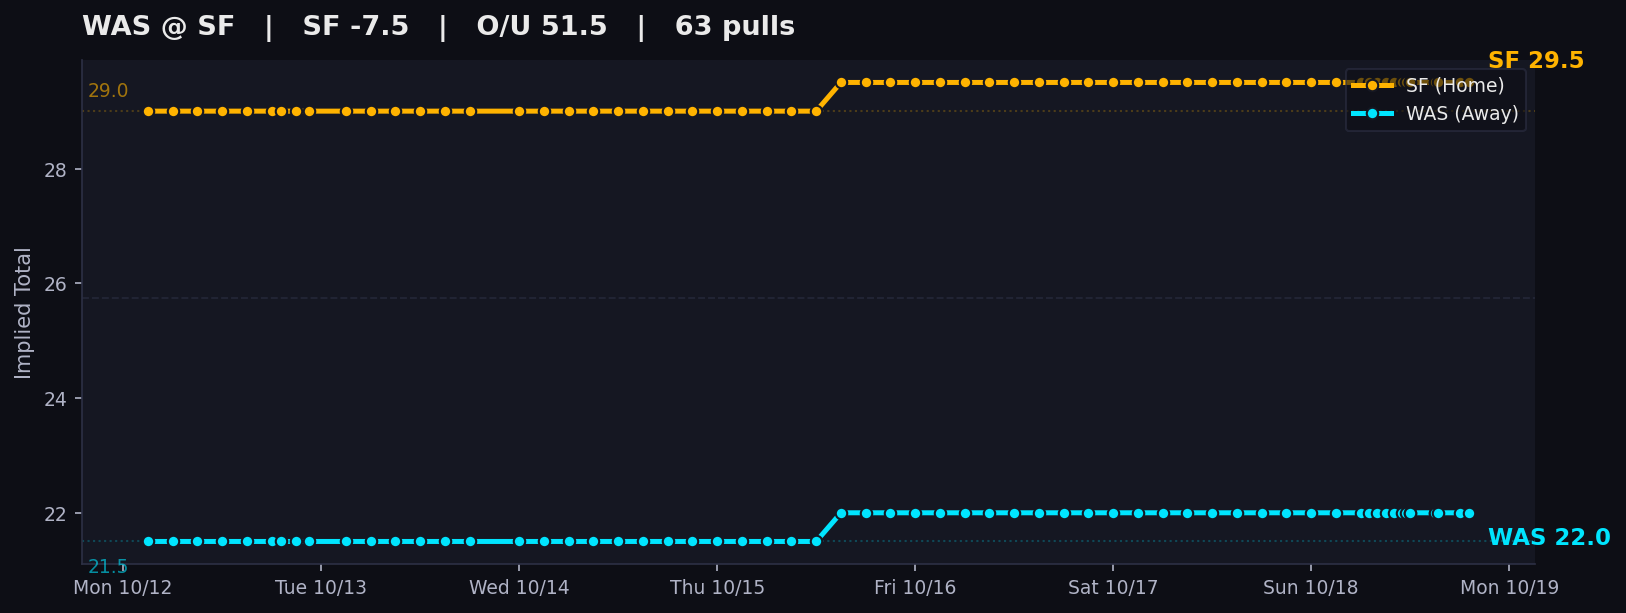
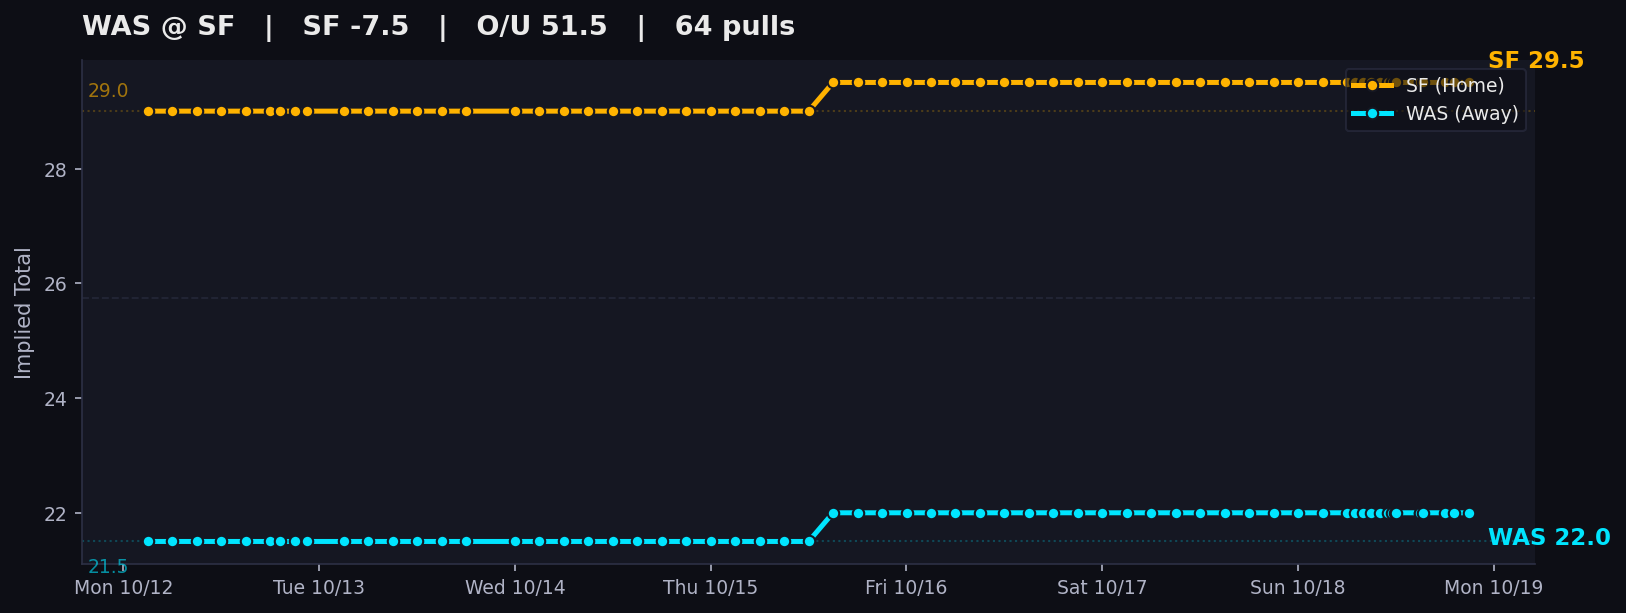
auto: local tracker sync

diff --git a/charts/index.html b/charts/index.html
@@ -311,7 +311,7 @@
     </div>
     <p class='sub'>
       DraftKings main lines &middot; Pinnacle cross-check &middot; Updated by the local Mac tracker<br>
-      Page rendered Sun Oct 18, 2026 7:10 PM CDT &middot; 827 valid chart dots &middot; 870 total pull attempts
+      Page rendered Sun Oct 18, 2026 9:00 PM CDT &middot; 828 valid chart dots &middot; 872 total pull attempts
       <span class='legend-box'>
         <span class='dot-teal'>● Away implied total</span>
         <span class='dot-amber'>● Home implied total</span>
@@ -324,9 +324,9 @@
     </details>
   </header>
 
-  <div id='feed-banner' class='alert-banner healthy' data-banner-kind='healthy' data-feed-ts='2026-10-19T00:10:01.359197+00:00' data-feed-ts-label='Sun Oct 18, 7:10 PM CDT'>
+  <div id='feed-banner' class='alert-banner healthy' data-banner-kind='healthy' data-feed-ts='2026-10-19T02:00:02.631627+00:00' data-feed-ts-label='Sun Oct 18, 9:00 PM CDT'>
             <span class='status-dot'></span>
-            <b>Feed Healthy:</b> All 2 open markets updated. 12 games have started and is showing its final verified pregame line. Board age based on oldest open market: <span id='feed-time'>Sun Oct 18, 7:10 PM CDT</span> (<span id='feed-age-dynamic'>just now</span>).
+            <b>Feed Healthy:</b> All 1 open markets updated. 13 games have started and is showing its final verified pregame line. Board age based on oldest open market: <span id='feed-time'>Sun Oct 18, 9:00 PM CDT</span> (<span id='feed-age-dynamic'>just now</span>).
         </div>
 
   <nav class='filter-bar' aria-label='Filter games by slate'>
@@ -396,7 +396,7 @@
                 <div><span>Last valid pull</span><strong>Thu 6:00 PM CT</strong></div>
                 <div><span>Chart dots</span><strong>34</strong></div>
             </div>
-                    <img class='expanded-chart' src='SEA_DEN.png?v=1792368616' alt='SEA at DEN line movement chart'>
+                    <img class='expanded-chart' src='SEA_DEN.png?v=1792375218' alt='SEA at DEN line movement chart'>
                     <p class='movement-note'>Total 42.5 → 40.5</p>
                 </div>
             </td>
@@ -437,7 +437,7 @@
                 <div><span>Last valid pull</span><strong>8:00 AM CT</strong></div>
                 <div><span>Chart dots</span><strong>56</strong></div>
             </div>
-                    <img class='expanded-chart' src='HOU_JAX.png?v=1792368616' alt='HOU at JAX line movement chart'>
+                    <img class='expanded-chart' src='HOU_JAX.png?v=1792375218' alt='HOU at JAX line movement chart'>
                     <p class='movement-note'>Spread JAX -3.0 → -2.5; Total 43.5 → 41.5</p>
                 </div>
             </td>
@@ -478,7 +478,7 @@
                 <div><span>Last valid pull</span><strong>12:00 PM CT</strong></div>
                 <div><span>Chart dots</span><strong>62</strong></div>
             </div>
-                    <img class='expanded-chart' src='CAR_PHI.png?v=1792368616' alt='CAR at PHI line movement chart'>
+                    <img class='expanded-chart' src='CAR_PHI.png?v=1792375218' alt='CAR at PHI line movement chart'>
                     <p class='movement-note'>Spread CAR +1.5 → -3.0; Total 42.5 → 39.5</p>
                 </div>
             </td>
@@ -513,7 +513,7 @@
                 <div><span>Last valid pull</span><strong>12:00 PM CT</strong></div>
                 <div><span>Chart dots</span><strong>55</strong></div>
             </div>
-                    <img class='expanded-chart' src='CHI_ATL.png?v=1792368616' alt='CHI at ATL line movement chart'>
+                    <img class='expanded-chart' src='CHI_ATL.png?v=1792375218' alt='CHI at ATL line movement chart'>
                     <p class='movement-note'>Spread CHI -3.0 → -1.5; Total 48.5 → 51.5</p>
                 </div>
             </td>
@@ -548,7 +548,7 @@
                 <div><span>Last valid pull</span><strong>12:00 PM CT</strong></div>
                 <div><span>Chart dots</span><strong>62</strong></div>
             </div>
-                    <img class='expanded-chart' src='PIT_TB.png?v=1792368616' alt='PIT at TB line movement chart'>
+                    <img class='expanded-chart' src='PIT_TB.png?v=1792375218' alt='PIT at TB line movement chart'>
                     <p class='movement-note'>Spread PIT -3.0 → -2.5; Total 40.5 → 37.5</p>
                 </div>
             </td>
@@ -583,7 +583,7 @@
                 <div><span>Last valid pull</span><strong>12:00 PM CT</strong></div>
                 <div><span>Chart dots</span><strong>62</strong></div>
             </div>
-                    <img class='expanded-chart' src='NO_NYG.png?v=1792368616' alt='NO at NYG line movement chart'>
+                    <img class='expanded-chart' src='NO_NYG.png?v=1792375218' alt='NO at NYG line movement chart'>
                     <p class='movement-note'>Spread NO +1.5 → -1.5</p>
                 </div>
             </td>
@@ -618,7 +618,7 @@
                 <div><span>Last valid pull</span><strong>12:00 PM CT</strong></div>
                 <div><span>Chart dots</span><strong>55</strong></div>
             </div>
-                    <img class='expanded-chart' src='BAL_CLE.png?v=1792368616' alt='BAL at CLE line movement chart'>
+                    <img class='expanded-chart' src='BAL_CLE.png?v=1792375218' alt='BAL at CLE line movement chart'>
                     <p class='movement-note'>Spread BAL -4.5 → -3.0; Total 40.5 → 39.5</p>
                 </div>
             </td>
@@ -653,7 +653,7 @@
                 <div><span>Last valid pull</span><strong>12:00 PM CT</strong></div>
                 <div><span>Chart dots</span><strong>62</strong></div>
             </div>
-                    <img class='expanded-chart' src='NYJ_NE.png?v=1792368616' alt='NYJ at NE line movement chart'>
+                    <img class='expanded-chart' src='NYJ_NE.png?v=1792375218' alt='NYJ at NE line movement chart'>
                     <p class='movement-note'>Total 44.5 → 43.5</p>
                 </div>
             </td>
@@ -688,7 +688,7 @@
                 <div><span>Last valid pull</span><strong>12:00 PM CT</strong></div>
                 <div><span>Chart dots</span><strong>62</strong></div>
             </div>
-                    <img class='expanded-chart' src='TEN_IND.png?v=1792368616' alt='TEN at IND line movement chart'>
+                    <img class='expanded-chart' src='TEN_IND.png?v=1792375218' alt='TEN at IND line movement chart'>
                     <p class='movement-note'>Spread IND -7.0 → -6.5; Total 44.5 → 43.5</p>
                 </div>
             </td>
@@ -729,7 +729,7 @@
                 <div><span>Last valid pull</span><strong>3:20 PM CT</strong></div>
                 <div><span>Chart dots</span><strong>64</strong></div>
             </div>
-                    <img class='expanded-chart' src='LAC_KC.png?v=1792368616' alt='LAC at KC line movement chart'>
+                    <img class='expanded-chart' src='LAC_KC.png?v=1792375218' alt='LAC at KC line movement chart'>
                     <p class='movement-note'>Spread KC -8.5 → -7.5; Total 43.5 → 41.5</p>
                 </div>
             </td>
@@ -764,7 +764,7 @@
                 <div><span>Last valid pull</span><strong>3:00 PM CT</strong></div>
                 <div><span>Chart dots</span><strong>62</strong></div>
             </div>
-                    <img class='expanded-chart' src='ARI_LAR.png?v=1792368616' alt='ARI at LAR line movement chart'>
+                    <img class='expanded-chart' src='ARI_LAR.png?v=1792375218' alt='ARI at LAR line movement chart'>
                     <p class='movement-note'>Total 52.5 → 51.5</p>
                 </div>
             </td>
@@ -799,7 +799,7 @@
                 <div><span>Last valid pull</span><strong>3:20 PM CT</strong></div>
                 <div><span>Chart dots</span><strong>62</strong></div>
             </div>
-                    <img class='expanded-chart' src='BUF_LVR.png?v=1792368616' alt='BUF at LVR line movement chart'>
+                    <img class='expanded-chart' src='BUF_LVR.png?v=1792375218' alt='BUF at LVR line movement chart'>
                     <p class='movement-note'>Spread BUF -6.0 → -5.5</p>
                 </div>
             </td>
@@ -809,7 +809,7 @@
                     <span class='sep-label'>SUNDAY NIGHT FOOTBALL</span>
                     <span class='sep-dash'>────</span>
                 </td>
-            </tr><tr class='game-row ' data-slate='SNF' data-game='DAL_GB' data-toggle-game='DAL_GB' tabindex='0' role='button' aria-expanded='false' aria-controls='desktop-panel-DAL_GB'>
+            </tr><tr class='game-row closed-game' data-slate='SNF' data-game='DAL_GB' data-toggle-game='DAL_GB' tabindex='0' role='button' aria-expanded='false' aria-controls='desktop-panel-DAL_GB'>
             <td class='mu'>DAL @ <b>GB</b><span class='view-chart'>View chart <span class='chevron'>⌄</span></span></td>
             <td>GB -1.5</td>
             <td><b>DAL -1.5</b></td>
@@ -820,7 +820,7 @@
             <td class='it-away'>DAL 27.5</td>
             <td class='it-home'>GB 26.0</td>
             <td class='reason' title='Spread DAL +1.5 → -1.5; Total 52.5 → 53.5'>Spread DAL +1.5 → -1.5; Total 52.5 → 53.5</td>
-            <td style='text-align:center;'><span class='pill-fresh'>7:10 PM CT</span></td>
+            <td style='text-align:center;'><span class='pill-closed' title='Pregame market closed at kickoff. Showing the final verified pregame line from 7:10 PM CT.'>Started Sun 7:22 PM CT</span></td>
             <td class='snaps'>66</td>
         </tr>
         <tr id='desktop-panel-DAL_GB' class='chart-detail-row' data-slate='SNF' data-game-panel='DAL_GB' hidden>
@@ -840,7 +840,7 @@
                 <div><span>Last valid pull</span><strong>7:10 PM CT</strong></div>
                 <div><span>Chart dots</span><strong>66</strong></div>
             </div>
-                    <img class='expanded-chart' src='DAL_GB.png?v=1792368616' alt='DAL at GB line movement chart'>
+                    <img class='expanded-chart' src='DAL_GB.png?v=1792375218' alt='DAL at GB line movement chart'>
                     <p class='movement-note'>Spread DAL +1.5 → -1.5; Total 52.5 → 53.5</p>
                 </div>
             </td>
@@ -861,8 +861,8 @@
             <td class='it-away'>WAS 22.0</td>
             <td class='it-home'>SF 29.5</td>
             <td class='reason' title='Total 50.5 → 51.5'>Total 50.5 → 51.5</td>
-            <td style='text-align:center;'><span class='pill-fresh'>7:10 PM CT</span></td>
-            <td class='snaps'>63</td>
+            <td style='text-align:center;'><span class='pill-fresh'>9:00 PM CT</span></td>
+            <td class='snaps'>64</td>
         </tr>
         <tr id='desktop-panel-WAS_SF' class='chart-detail-row' data-slate='MNF' data-game-panel='WAS_SF' hidden>
             <td colspan='12'>
@@ -878,10 +878,10 @@
                 <div><span>Current total</span><strong>51.5</strong></div>
                 <div><span>Away implied</span><strong class='it-away'>WAS 22.0</strong></div>
                 <div><span>Home implied</span><strong class='it-home'>SF 29.5</strong></div>
-                <div><span>Last valid pull</span><strong>7:10 PM CT</strong></div>
-                <div><span>Chart dots</span><strong>63</strong></div>
+                <div><span>Last valid pull</span><strong>9:00 PM CT</strong></div>
+                <div><span>Chart dots</span><strong>64</strong></div>
             </div>
-                    <img class='expanded-chart' src='WAS_SF.png?v=1792368616' alt='WAS at SF line movement chart'>
+                    <img class='expanded-chart' src='WAS_SF.png?v=1792375218' alt='WAS at SF line movement chart'>
                     <p class='movement-note'>Total 50.5 → 51.5</p>
                 </div>
             </td>
@@ -916,7 +916,7 @@
                 <div><span>Last valid pull</span><strong>Thu 6:00 PM CT</strong></div>
                 <div><span>Chart dots</span><strong>34</strong></div>
             </div>
-                <img class='expanded-chart' src='SEA_DEN.png?v=1792368616' alt='SEA at DEN line movement chart'>
+                <img class='expanded-chart' src='SEA_DEN.png?v=1792375218' alt='SEA at DEN line movement chart'>
                 <p class='pull-note'><span class='pull-dot'></span> Every dot is a valid completed pull · 34 chart dots</p>
             </div>
         </article><article class='mobile-game-card closed-game' data-slate='OTHER_PRIMETIME' data-game='HOU_JAX'>
@@ -943,7 +943,7 @@
                 <div><span>Last valid pull</span><strong>8:00 AM CT</strong></div>
                 <div><span>Chart dots</span><strong>56</strong></div>
             </div>
-                <img class='expanded-chart' src='HOU_JAX.png?v=1792368616' alt='HOU at JAX line movement chart'>
+                <img class='expanded-chart' src='HOU_JAX.png?v=1792375218' alt='HOU at JAX line movement chart'>
                 <p class='pull-note'><span class='pull-dot'></span> Every dot is a valid completed pull · 56 chart dots</p>
             </div>
         </article><article class='mobile-game-card closed-game' data-slate='SUN_EARLY' data-game='CAR_PHI'>
@@ -970,7 +970,7 @@
                 <div><span>Last valid pull</span><strong>12:00 PM CT</strong></div>
                 <div><span>Chart dots</span><strong>62</strong></div>
             </div>
-                <img class='expanded-chart' src='CAR_PHI.png?v=1792368616' alt='CAR at PHI line movement chart'>
+                <img class='expanded-chart' src='CAR_PHI.png?v=1792375218' alt='CAR at PHI line movement chart'>
                 <p class='pull-note'><span class='pull-dot'></span> Every dot is a valid completed pull · 62 chart dots</p>
             </div>
         </article><article class='mobile-game-card closed-game' data-slate='SUN_EARLY' data-game='CHI_ATL'>
@@ -997,7 +997,7 @@
                 <div><span>Last valid pull</span><strong>12:00 PM CT</strong></div>
                 <div><span>Chart dots</span><strong>55</strong></div>
             </div>
-                <img class='expanded-chart' src='CHI_ATL.png?v=1792368616' alt='CHI at ATL line movement chart'>
+                <img class='expanded-chart' src='CHI_ATL.png?v=1792375218' alt='CHI at ATL line movement chart'>
                 <p class='pull-note'><span class='pull-dot'></span> Every dot is a valid completed pull · 55 chart dots</p>
             </div>
         </article><article class='mobile-game-card closed-game' data-slate='SUN_EARLY' data-game='PIT_TB'>
@@ -1024,7 +1024,7 @@
                 <div><span>Last valid pull</span><strong>12:00 PM CT</strong></div>
                 <div><span>Chart dots</span><strong>62</strong></div>
             </div>
-                <img class='expanded-chart' src='PIT_TB.png?v=1792368616' alt='PIT at TB line movement chart'>
+                <img class='expanded-chart' src='PIT_TB.png?v=1792375218' alt='PIT at TB line movement chart'>
                 <p class='pull-note'><span class='pull-dot'></span> Every dot is a valid completed pull · 62 chart dots</p>
             </div>
         </article><article class='mobile-game-card closed-game' data-slate='SUN_EARLY' data-game='NO_NYG'>
@@ -1051,7 +1051,7 @@
                 <div><span>Last valid pull</span><strong>12:00 PM CT</strong></div>
                 <div><span>Chart dots</span><strong>62</strong></div>
             </div>
-                <img class='expanded-chart' src='NO_NYG.png?v=1792368616' alt='NO at NYG line movement chart'>
+                <img class='expanded-chart' src='NO_NYG.png?v=1792375218' alt='NO at NYG line movement chart'>
                 <p class='pull-note'><span class='pull-dot'></span> Every dot is a valid completed pull · 62 chart dots</p>
             </div>
         </article><article class='mobile-game-card closed-game' data-slate='SUN_EARLY' data-game='BAL_CLE'>
@@ -1078,7 +1078,7 @@
                 <div><span>Last valid pull</span><strong>12:00 PM CT</strong></div>
                 <div><span>Chart dots</span><strong>55</strong></div>
             </div>
-                <img class='expanded-chart' src='BAL_CLE.png?v=1792368616' alt='BAL at CLE line movement chart'>
+                <img class='expanded-chart' src='BAL_CLE.png?v=1792375218' alt='BAL at CLE line movement chart'>
                 <p class='pull-note'><span class='pull-dot'></span> Every dot is a valid completed pull · 55 chart dots</p>
             </div>
         </article><article class='mobile-game-card closed-game' data-slate='SUN_EARLY' data-game='NYJ_NE'>
@@ -1105,7 +1105,7 @@
                 <div><span>Last valid pull</span><strong>12:00 PM CT</strong></div>
                 <div><span>Chart dots</span><strong>62</strong></div>
             </div>
-                <img class='expanded-chart' src='NYJ_NE.png?v=1792368616' alt='NYJ at NE line movement chart'>
+                <img class='expanded-chart' src='NYJ_NE.png?v=1792375218' alt='NYJ at NE line movement chart'>
                 <p class='pull-note'><span class='pull-dot'></span> Every dot is a valid completed pull · 62 chart dots</p>
             </div>
         </article><article class='mobile-game-card closed-game' data-slate='SUN_EARLY' data-game='TEN_IND'>
@@ -1132,7 +1132,7 @@
                 <div><span>Last valid pull</span><strong>12:00 PM CT</strong></div>
                 <div><span>Chart dots</span><strong>62</strong></div>
             </div>
-                <img class='expanded-chart' src='TEN_IND.png?v=1792368616' alt='TEN at IND line movement chart'>
+                <img class='expanded-chart' src='TEN_IND.png?v=1792375218' alt='TEN at IND line movement chart'>
                 <p class='pull-note'><span class='pull-dot'></span> Every dot is a valid completed pull · 62 chart dots</p>
             </div>
         </article><article class='mobile-game-card closed-game' data-slate='SUN_LATE' data-game='LAC_KC'>
@@ -1159,7 +1159,7 @@
                 <div><span>Last valid pull</span><strong>3:20 PM CT</strong></div>
                 <div><span>Chart dots</span><strong>64</strong></div>
             </div>
-                <img class='expanded-chart' src='LAC_KC.png?v=1792368616' alt='LAC at KC line movement chart'>
+                <img class='expanded-chart' src='LAC_KC.png?v=1792375218' alt='LAC at KC line movement chart'>
                 <p class='pull-note'><span class='pull-dot'></span> Every dot is a valid completed pull · 64 chart dots</p>
             </div>
         </article><article class='mobile-game-card closed-game' data-slate='SUN_LATE' data-game='ARI_LAR'>
@@ -1186,7 +1186,7 @@
                 <div><span>Last valid pull</span><strong>3:00 PM CT</strong></div>
                 <div><span>Chart dots</span><strong>62</strong></div>
             </div>
-                <img class='expanded-chart' src='ARI_LAR.png?v=1792368616' alt='ARI at LAR line movement chart'>
+                <img class='expanded-chart' src='ARI_LAR.png?v=1792375218' alt='ARI at LAR line movement chart'>
                 <p class='pull-note'><span class='pull-dot'></span> Every dot is a valid completed pull · 62 chart dots</p>
             </div>
         </article><article class='mobile-game-card closed-game' data-slate='SUN_LATE' data-game='BUF_LVR'>
@@ -1213,10 +1213,10 @@
                 <div><span>Last valid pull</span><strong>3:20 PM CT</strong></div>
                 <div><span>Chart dots</span><strong>62</strong></div>
             </div>
-                <img class='expanded-chart' src='BUF_LVR.png?v=1792368616' alt='BUF at LVR line movement chart'>
+                <img class='expanded-chart' src='BUF_LVR.png?v=1792375218' alt='BUF at LVR line movement chart'>
                 <p class='pull-note'><span class='pull-dot'></span> Every dot is a valid completed pull · 62 chart dots</p>
             </div>
-        </article><article class='mobile-game-card ' data-slate='SNF' data-game='DAL_GB'>
+        </article><article class='mobile-game-card closed-game' data-slate='SNF' data-game='DAL_GB'>
             <button class='mobile-game-summary' type='button' data-toggle-game='DAL_GB' aria-expanded='false' aria-controls='mobile-panel-DAL_GB'>
                 <span class='mobile-game-main'>
                     <span class='mobile-slate'>SUNDAY NIGHT FOOTBALL</span>
@@ -1240,7 +1240,7 @@
                 <div><span>Last valid pull</span><strong>7:10 PM CT</strong></div>
                 <div><span>Chart dots</span><strong>66</strong></div>
             </div>
-                <img class='expanded-chart' src='DAL_GB.png?v=1792368616' alt='DAL at GB line movement chart'>
+                <img class='expanded-chart' src='DAL_GB.png?v=1792375218' alt='DAL at GB line movement chart'>
                 <p class='pull-note'><span class='pull-dot'></span> Every dot is a valid completed pull · 66 chart dots</p>
             </div>
         </article><article class='mobile-game-card ' data-slate='MNF' data-game='WAS_SF'>
@@ -1264,11 +1264,11 @@
                 <div><span>Current total</span><strong>51.5</strong></div>
                 <div><span>Away implied</span><strong class='it-away'>WAS 22.0</strong></div>
                 <div><span>Home implied</span><strong class='it-home'>SF 29.5</strong></div>
-                <div><span>Last valid pull</span><strong>7:10 PM CT</strong></div>
-                <div><span>Chart dots</span><strong>63</strong></div>
+                <div><span>Last valid pull</span><strong>9:00 PM CT</strong></div>
+                <div><span>Chart dots</span><strong>64</strong></div>
             </div>
-                <img class='expanded-chart' src='WAS_SF.png?v=1792368616' alt='WAS at SF line movement chart'>
-                <p class='pull-note'><span class='pull-dot'></span> Every dot is a valid completed pull · 63 chart dots</p>
+                <img class='expanded-chart' src='WAS_SF.png?v=1792375218' alt='WAS at SF line movement chart'>
+                <p class='pull-note'><span class='pull-dot'></span> Every dot is a valid completed pull · 64 chart dots</p>
             </div>
         </article>
   </section>
